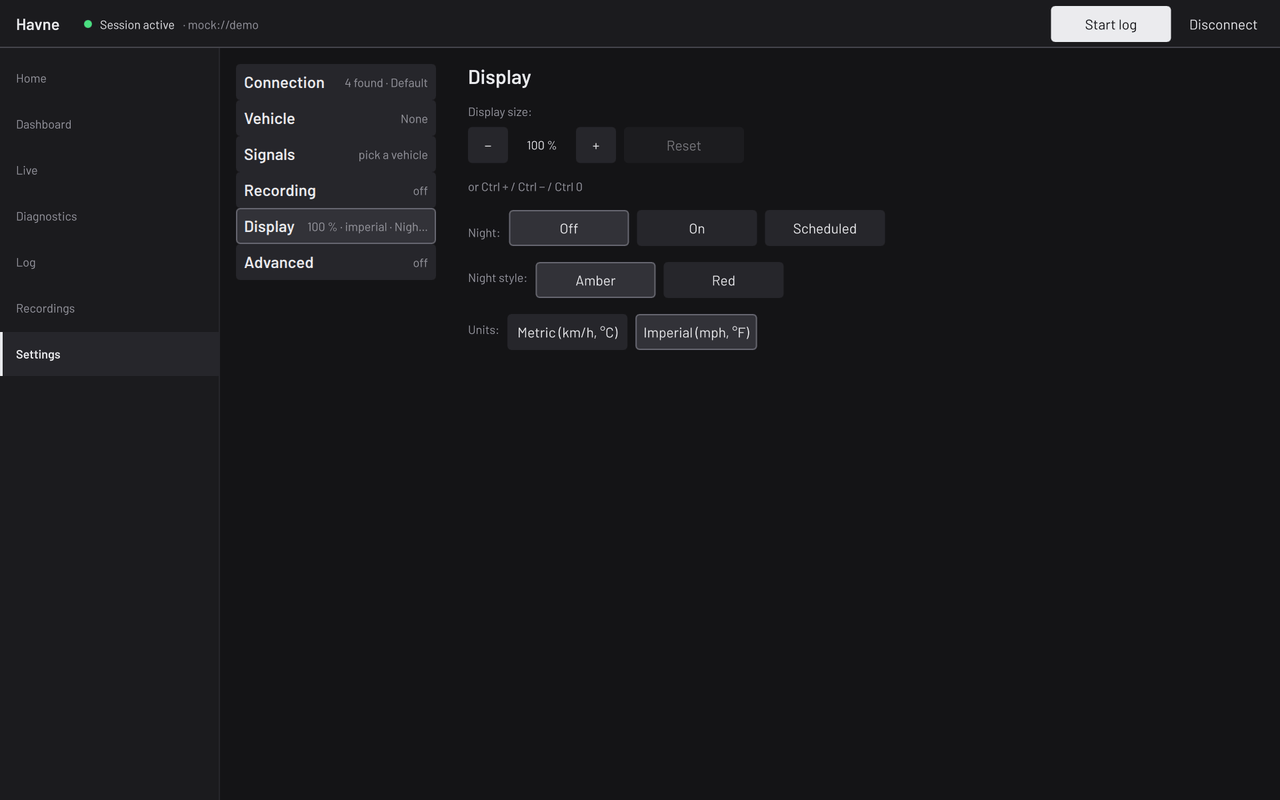
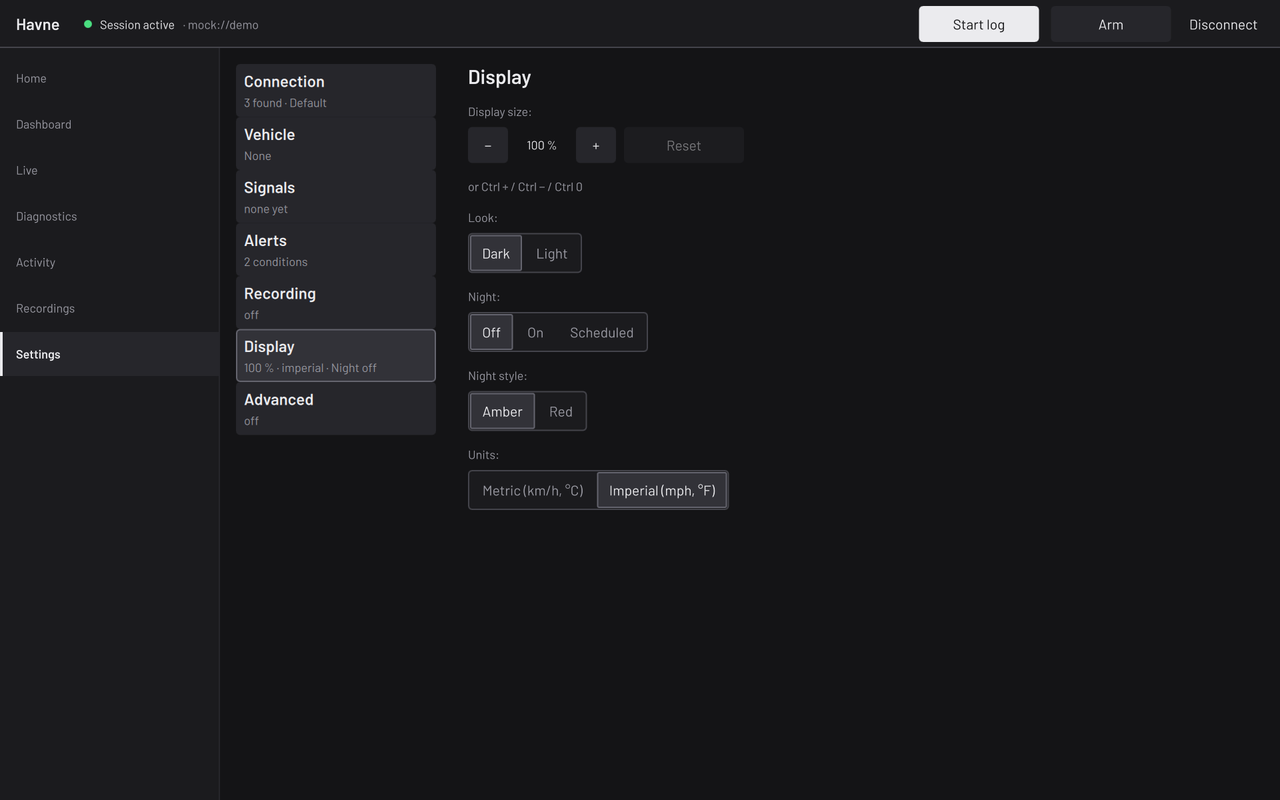
docs: retake the desktop screenshots for v0.8.0
The sidebar reads Activity and the header has Armed in every desktop shot; new shots of Settings, Alerts, the alert band and the viewer's Conditions panel; the viewer's shot is of a minute's recording, with its alt text and captions.

diff --git a/docs/screenshots.md b/docs/screenshots.md
@@ -25,7 +25,7 @@ building to about 16 psi, and coolant and oil climbing toward the fan's cut-in.*
 
 | Light | Night, amber | Night, red |
 |---|---|---|
-| [![The Dashboard in the Light look in a 2nd-gear pull at 5,992 rpm](images/desktop-dashboard-light.png)](images/desktop-dashboard-light.png) | [![The Dashboard in Night's amber style in a 2nd-gear pull at 6,867 rpm](images/desktop-dashboard-amber.png)](images/desktop-dashboard-amber.png) | [![The Dashboard in Night's red style in a 2nd-gear pull at 7,004 rpm](images/desktop-dashboard-red.png)](images/desktop-dashboard-red.png) |
+| [![The Dashboard in the Light look in a 2nd-gear pull at 6,049 rpm](images/desktop-dashboard-light.png)](images/desktop-dashboard-light.png) | [![The Dashboard in Night's amber style in a 2nd-gear pull at 6,856 rpm](images/desktop-dashboard-amber.png)](images/desktop-dashboard-amber.png) | [![The Dashboard in Night's red style in a 2nd-gear pull at 6,867 rpm](images/desktop-dashboard-red.png)](images/desktop-dashboard-red.png) |
 
 ### Live
 
@@ -60,11 +60,23 @@ readiness monitors, each done this drive and complete since the clear.*
 *A recording in the viewer: rpm and speed through the first loop's
 pulls, coolant and oil warming from the cold start.*
 
-![The viewer on a pull, maximized: rpm, throttle, lambda and boost in a pane each, the cursor at peak boost at 18.4 s](images/viewer.png)
+![The viewer on a recording of a minute: rpm, throttle, lambda and boost in panes, a pull's band at each of the two pulls](images/viewer.png)
 
-*One pull, the chart maximized: from before the throttle opens through
-the limiter, with the cursor at peak boost (16.7 psi, lambda 0.82, rpm
-climbing).*
+*A recording of the first minute: rpm, throttle, lambda and boost through two pulls, each marked by a band.*
+
+### Alerts
+
+![Settings, Alerts: an Engine speed high danger alert and a Speed above 50 warning alert](images/desktop-alerts.png)
+
+*Settings, Alerts, on the simulated vehicle under `obd2`: a danger alert on engine speed and a warning alert on speed, each listed with its level.*
+
+![Live with the alert band over it: a danger alert, Engine speed high, firing at 6,049 rpm, with one more alert on](images/desktop-alert-band.png)
+
+*An alert firing: the highest one, danger above warning, in a band under the header on every page, with the value it fired at and how many more are on. The RPM and speed values in the list take their alerts' colors.*
+
+![The viewer with its Conditions panel open: each time an alert was on, with the bars along the chart's foot](images/desktop-viewer-conditions.png)
+
+*A recording that held the two alerts: Conditions... lists each time one was on with its start and length, and the bars along the foot of the chart show the same stretches.*
 
 ### Link health
 

diff --git a/README.md b/README.md
@@ -57,7 +57,7 @@ Havne reads a car through J2534, ELM327 or SocketCAN adapters on Windows, Linux 
 </tbody>
 </table>
 
-![The Recordings viewer on a log of a pull: rpm, throttle, lambda and boost in a pane each, the cursor at peak boost reading 4,992 rpm, lambda 0.82 and 16.7 psi](docs/images/viewer.png)
+![The Recordings viewer on a minute of the simulated car: rpm, throttle, lambda and boost through two pulls, each marked by a band](docs/images/viewer.png)
 
 *A pull in the Recordings viewer: each unit in its own pane on one time axis, the cursor's values beside them, lambda going lean on the limiter's fuel cut.*
 
